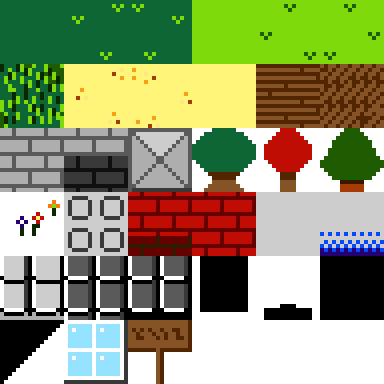
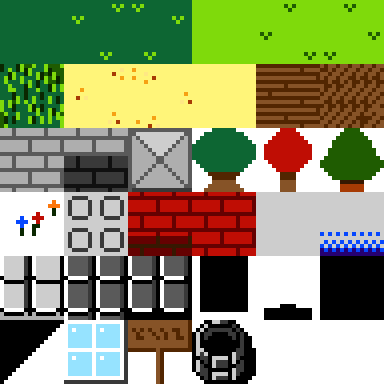
Added the well image

Changed region(s): [[0.5, 0.8125, 0.6875, 1.0], [0.0312, 0.5625, 0.125, 0.5938], [0.125, 0.5312, 0.1562, 0.5625]]

diff --git a/src/js/town.js b/src/js/town.js
@@ -10,6 +10,12 @@ Game.Town = function(game) {
 };
 
 Game.Town.prototype = {
+  preload: function() {
+    this.scene = parseInt(localStorage.getItem('scene'));
+    this.haveRope = JSON.parse(localStorage.getItem('haveRope')); 
+    this.haveLamp = JSON.parse(localStorage.getItem('haveLamp')); 
+    console.log('scene',this.scene);
+  },
   create: function() {
     this.game.physics.startSystem(Phaser.Physics.P2JS); // start the physics
     this.game.physics.p2.setBoundsToWorld(true, true, true, true, false);
@@ -24,10 +30,6 @@ Game.Town.prototype = {
 
     //Get Locally Stored vars
 
-    this.scene = parseInt(localStorage.getItem('scene'));
-    this.haveRope = JSON.parse(localStorage.getItem('haveRope')); 
-    this.haveLamp = JSON.parse(localStorage.getItem('haveLamp')); 
-    console.log('scene',this.scene);
 
     //Debug
     // this.layer1.debug = true;
@@ -52,6 +54,7 @@ Game.Town.prototype = {
     this.map.setCollision(52);
 
     this.map.setCollision(30);
+    this.map.setCollision(34,true,'layer2');
      
     // Signs
     this.map.setCollision(33,true,'layer2');
@@ -90,7 +93,7 @@ Game.Town.prototype = {
     if ((this.scene === 1) || (this.scene === 7)) {
       this.jack = new Npc(this.game,tileSize*10, tileSize*7,'jack', 9, this.lines['jack'][this.scene]);
     }else {
-      this.jack = new Npc(this.game,tileSize*6, tileSize*15,'jack', 9, this.lines['jack'][this.scene]);
+      this.jack = new Npc(this.game,tileSize*5, tileSize*15,'jack', 9, this.lines['jack'][this.scene]);
     }
 
     if (this.scene !== 7 ) {
@@ -111,6 +114,7 @@ Game.Town.prototype = {
     this.exitPoints = this.game.add.group();
     this.map.createFromObjects('objects', 29, 'town', 28, true, false, this.exitPoints);
     this.map.createFromObjects('objects', 30, 'town', 29, true, false, this.exitPoints);
+    this.map.createFromObjects('objects', 34, 'town', 33, true, false, this.exitPoints);
 
 
     // Initial Player Position by tile
@@ -159,7 +163,7 @@ Game.Town.prototype = {
       this.scene = 2;
       localStorage.setItem('scene', '2'); 
       this.tweening = false;
-      this.jack.body.x = tileSize*6-32; 
+      this.jack.body.x = tileSize*5-32; 
       this.jack.body.y = tileSize*15-32; 
       this.jack.frame = 9;
       this.jack.animations.stop();
@@ -199,7 +203,8 @@ Game.Town.prototype = {
       b1 = ep.getBounds();
       bp = player.sprite.getBounds();
       if (Phaser.Rectangle.intersects(b1,bp)) {
-        if ((ep.destination != 'Well') ||  ((ep.destination === 'Well') && (Game.haveLight === true) && (Game.haveRope === true))) {
+        console.log(ep.destination);
+        if ((ep.destination != 'Well') ||  ((ep.destination === 'Well') && (this.haveLamp === true) && (this.haveRope === true))) {
           this.game.state.start(ep.destination);
         }
       }
